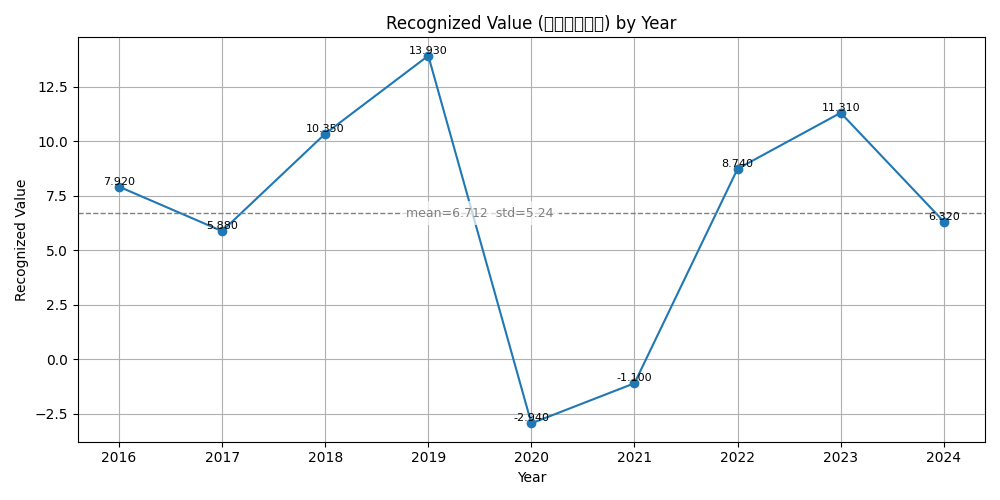
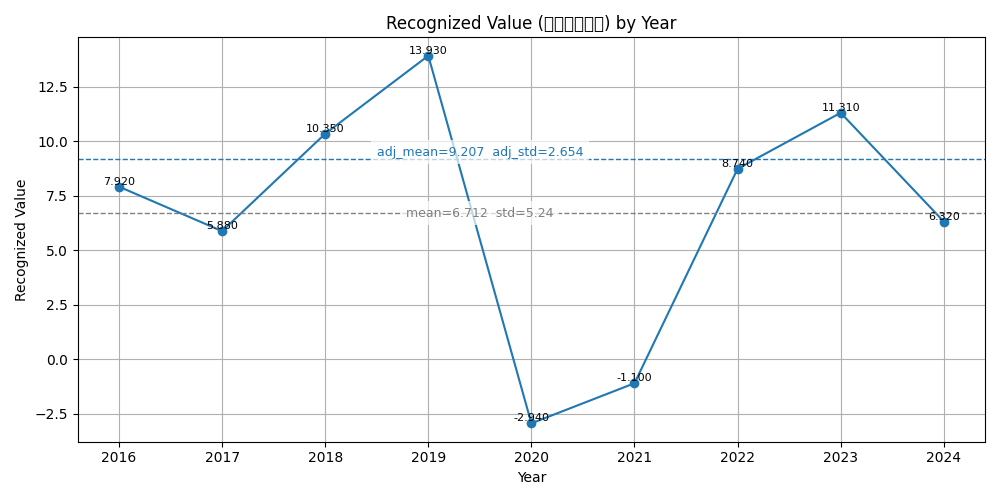
feat: 对修正后的认可价值也画到图中

Changed region(s): [[0.093, 0.27, 0.992, 0.33]]

diff --git a/code/qydl002039/qydl002039.py b/code/qydl002039/qydl002039.py
@@ -1034,6 +1034,23 @@ def qydl_total_liabilities_and_cash_and_dividends_analysis(json_data):
             except Exception:
                 pass
 
+        # plot adjusted recognized stats (exclude 2020 & 2021) if available
+        try:
+            adj_mean, adj_std = qydl_get_adj_recognized_value(json_data, exclude_years=(2020, 2021))
+        except Exception:
+            adj_mean = adj_std = None
+
+        if adj_mean is not None:
+            # use a different color to distinguish
+            plt.axhline(adj_mean, color="tab:blue", linestyle="--", linewidth=1)
+            try:
+                x_mid = (x[0] + x[-1]) / 2.0
+                txt2 = f"adj_mean={adj_mean:.3f}  adj_std={adj_std if adj_std is not None else 'NA'}"
+                # place slightly below the adjusted mean line to avoid overlap
+                plt.text(x_mid, adj_mean, txt2, va="bottom", ha="center", color="tab:blue", fontsize=9, bbox=dict(facecolor="white", alpha=0.7, edgecolor="none"))
+            except Exception:
+                pass
+
         plt.xlabel("Year")
         plt.ylabel("Recognized Value")
         plt.title("Recognized Value (认可产生价值) by Year")
